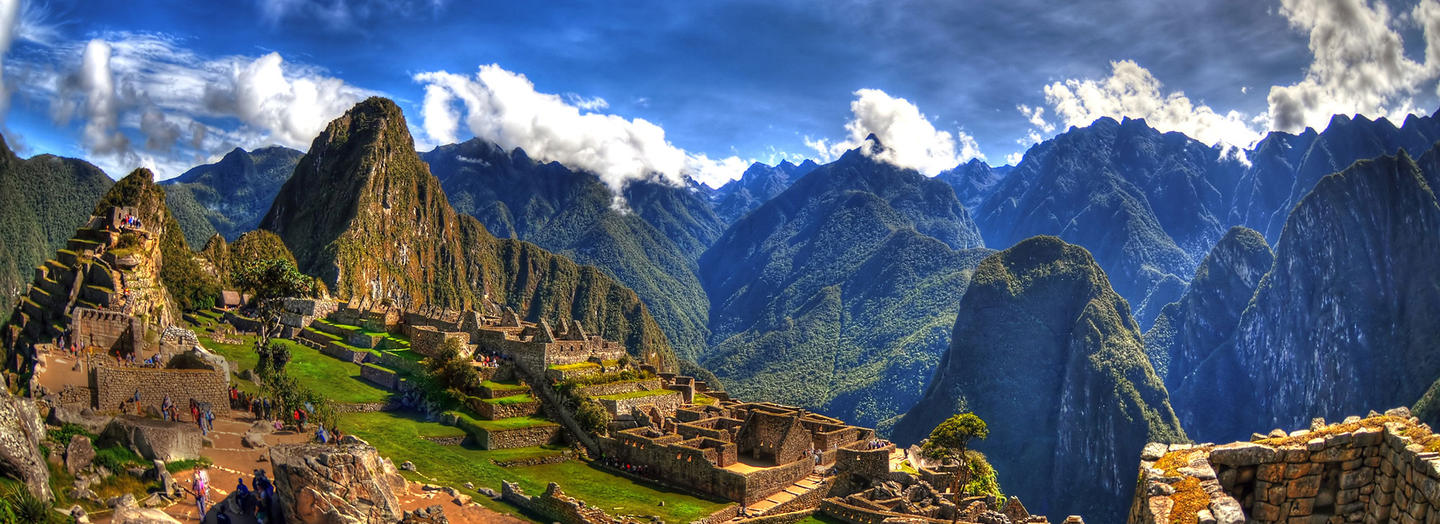
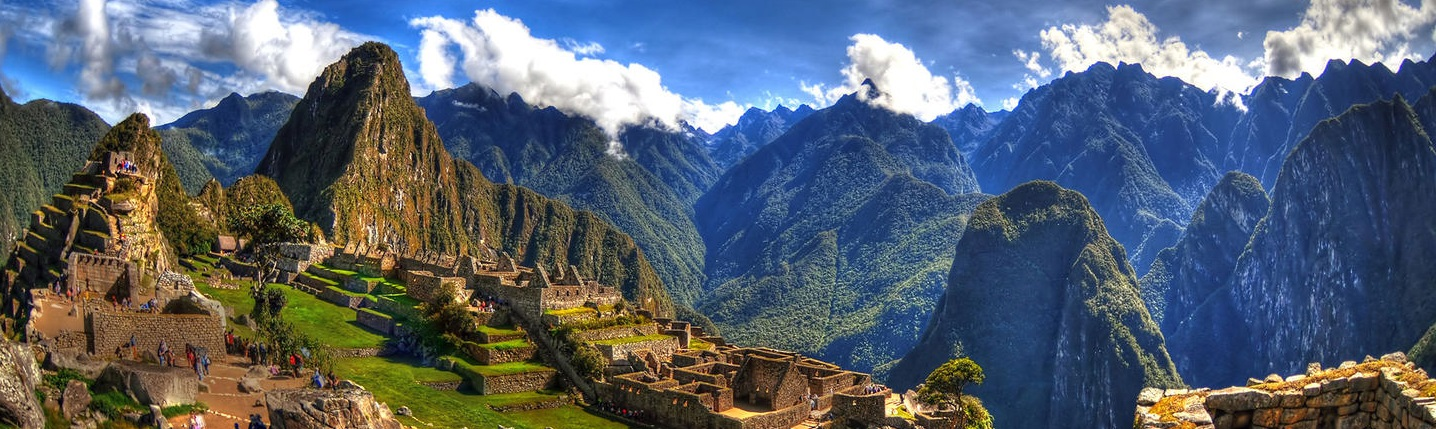
Updates
js, updated banners

diff --git a/destinations-europe.html b/destinations-europe.html
@@ -3,48 +3,61 @@
 <head>
   <link rel="stylesheet" href="./css/destinationstyles.css">
   <link rel="stylesheet" href="https://stackpath.bootstrapcdn.com/bootstrap/4.3.1/css/bootstrap.min.css" integrity="sha384-ggOyR0iXCbMQv3Xipma34MD+dH/1fQ784/j6cY/iJTQUOhcWr7x9JvoRxT2MZw1T" crossorigin="anonymous">
-  <title> Destinations </title>
+  <script
+  src="http://code.jquery.com/jquery-3.4.1.min.js"
+  integrity="sha256-CSXorXvZcTkaix6Yvo6HppcZGetbYMGWSFlBw8HfCJo="
+  crossorigin="anonymous"></script>
+  <title> Destinations: Europe </title>
 </head>
 <body>
+<!-- Navbar-->
   <nav class="navbar navbar-expand-lg navbar-light bg-light">
   <a class="navbar-brand" href="./home.html"> <img src="./logo.jpg" width="100px"> </a>
   <button class="navbar-toggler" type="button" data-toggle="collapse" data-target="#navbarSupportedContent" aria-controls="navbarSupportedContent" aria-expanded="false" aria-label="Toggle navigation">
     <span class="navbar-toggler-icon"></span>
   </button>
-
   <div class="collapse navbar-collapse" id="navbarSupportedContent">
     <ul class="navbar-nav mr-auto">
       <li class="nav-item active">
-        <a class="nav-link" href="#">Home <span class="sr-only">(current)</span></a>
+        <a class="nav-link" href="./home.html">Home <span class="sr-only">(current)</span></a>
       </li>
       <li class="nav-item">
-        <a class="nav-link" href="#">About</a>
+        <a class="nav-link" href="./about.html">About</a>
       </li>
       <li class="nav-item dropdown">
         <a class="nav-link dropdown-toggle" href="#" id="navbarDropdown" role="button" data-toggle="dropdown" aria-haspopup="true" aria-expanded="false">
           Destinations
         </a>
         <div class="dropdown-menu" aria-labelledby="navbarDropdown">
-          <a class="dropdown-item" href="#">Action</a>
-          <a class="dropdown-item" href="#">Another action</a>
+          <a class="dropdown-item" href="./desinations-europe.html">Europe</a>
+          <a class="dropdown-item" href="./destinations-south-america.html">South America</a>
           <div class="dropdown-divider"></div>
-          <a class="dropdown-item" href="#">Something else here</a>
         </div>
       </li>
-      <li class="nav-item">
-        <a class="nav-link disabled" href="#" tabindex="-1" aria-disabled="true">Disabled</a>
-      </li>
     </ul>
-    <form class="form-inline my-2 my-lg-0">
-      <input class="form-control mr-sm-2" type="search" placeholder="Search" aria-label="Search">
-      <button class="btn btn-outline-success my-2 my-sm-0" type="submit">Search</button>
-    </form>
-  </div>
-</nav>
+    </div>
+    </nav>
+<!-- Banner-->
+    <div class="banner">
+      <img class="mySlides" src="./banner2.jpg" alt="custom_html_banner1" style="width:100%">
+      </div>
+    <div class="logotext">
+      <font size="200px"> Destinations in Europe </font>
+    </div>
+<!--List of destinations-->
+      <div class="row">
+      <div class="col-sm">
+        <img class="center" src="./madrid.jpg" width="150px">
+      </div>
+      <div class="col-sm">
+        <b> Madrid, Spain </b> <br>
+        A modern metropolis, teeming with business, beautiful parks and high culture.
+        <br> Become a madrileno and enjoy the bustling city sprawl! <br>
+        <b> All-inclusing prices starting from: £449 </b>
+      </div>
+      <div class="row">
 
-<div class="banner">
- <img class="mySlides" src="./banner1.jpg" alt="custom_html_banner1" style="width:100%">
-</div>
 
 
+</body>
 </html>

diff --git a/destinations-south-america.html b/destinations-south-america.html
@@ -1,0 +1,49 @@
+<!DOCTYPE HTML>
+<html>
+<head>
+  <link rel="stylesheet" href="./css/destinationstyles.css">
+  <link rel="stylesheet" href="https://stackpath.bootstrapcdn.com/bootstrap/4.3.1/css/bootstrap.min.css" integrity="sha384-ggOyR0iXCbMQv3Xipma34MD+dH/1fQ784/j6cY/iJTQUOhcWr7x9JvoRxT2MZw1T" crossorigin="anonymous">
+  <script
+    src="http://code.jquery.com/jquery-3.4.1.min.js"
+    integrity="sha256-CSXorXvZcTkaix6Yvo6HppcZGetbYMGWSFlBw8HfCJo="
+    crossorigin="anonymous"></script>
+  <title> Destinations: Europe </title>
+</head>
+<body>
+  <nav class="navbar navbar-expand-lg navbar-light bg-light">
+  <a class="navbar-brand" href="./home.html"> <img src="./logo.jpg" width="100px"> </a>
+  <button class="navbar-toggler" type="button" data-toggle="collapse" data-target="#navbarSupportedContent" aria-controls="navbarSupportedContent" aria-expanded="false" aria-label="Toggle navigation">
+    <span class="navbar-toggler-icon"></span>
+  </button>
+
+  <div class="collapse navbar-collapse" id="navbarSupportedContent">
+    <ul class="navbar-nav mr-auto">
+      <li class="nav-item active">
+        <a class="nav-link" href="#">Home <span class="sr-only">(current)</span></a>
+      </li>
+      <li class="nav-item">
+        <a class="nav-link" href="#">About</a>
+      </li>
+      <li class="nav-item dropdown">
+        <a class="nav-link dropdown-toggle" href="#" id="navbarDropdown" role="button" data-toggle="dropdown" aria-haspopup="true" aria-expanded="false">
+          Destinations
+        </a>
+        <div class="dropdown-menu" aria-labelledby="navbarDropdown">
+          <a class="dropdown-item" href="./desinations-europe.html">Europe</a>
+          <a class="dropdown-item" href="./destinations-south-america.html">South America</a>
+          <div class="dropdown-divider"></div>
+        </div>
+      </li>
+      <li class="nav-item">
+        <a class="nav-link disabled" href="#" tabindex="-1" aria-disabled="true">Disabled</a>
+      </li>
+    </ul>
+  </div>
+</nav>
+
+<div class="banner">
+ <img class="mySlides" src="./banner1.jpg" alt="custom_html_banner1" style="width:100%">
+</div>
+
+
+</html>

diff --git a/index.html b/index.html
@@ -4,6 +4,10 @@
   <title> La Isla Bonita </title>
   <link rel="stylesheet" href="./css/styles.css">
   <link rel="stylesheet" href="https://stackpath.bootstrapcdn.com/bootstrap/4.3.1/css/bootstrap.min.css" integrity="sha384-ggOyR0iXCbMQv3Xipma34MD+dH/1fQ784/j6cY/iJTQUOhcWr7x9JvoRxT2MZw1T" crossorigin="anonymous">
+  <script
+  src="http://code.jquery.com/jquery-3.4.1.min.js"
+  integrity="sha256-CSXorXvZcTkaix6Yvo6HppcZGetbYMGWSFlBw8HfCJo="
+  crossorigin="anonymous"></script>
 </head>
 
 <body>

diff --git a/CSS/destinationstyles.css b/CSS/destinationstyles.css
@@ -1,0 +1,32 @@
+.navbar {
+    background: #FFF;
+    z-index: 1000;
+    width: 80%;
+    opacity: 0.7;
+    top: 0;
+}
+
+.banner {
+  position:relative;
+  size: 60%;
+}
+
+.logotext {
+  position: absolute;
+  text-align: center;
+  top: 250px;
+  left:390px;
+  color; white;
+}
+
+.center {
+  display: block;
+  margin-left: auto;
+  margin-right: auto;
+  width: 20%%;
+}
+
+font {
+  color: white;
+  background-color: red;
+}
